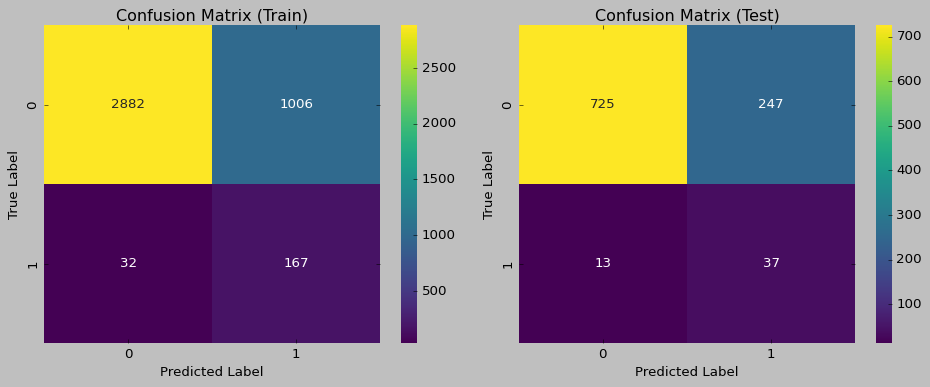
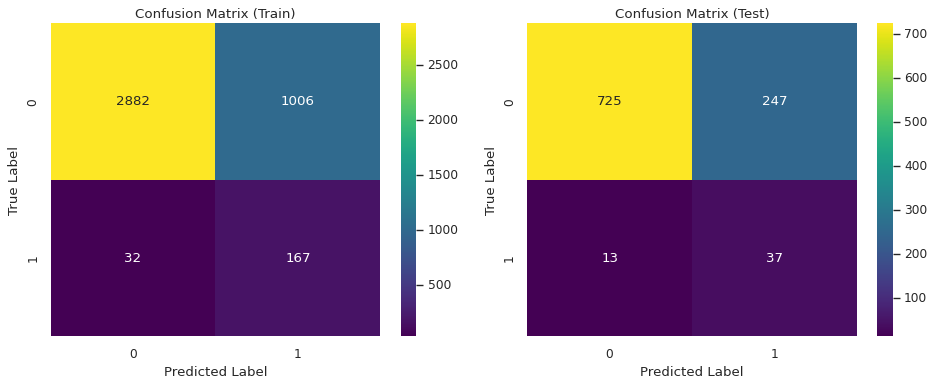
corr

diff --git a/README.md b/README.md
@@ -133,10 +133,10 @@ This dataset contains 5110 rows with 12 different characteristics:
 | Balanced Random Forest | Test    | 0.153846  | 0.720000 | 0.253521 | 0.792564 |
 
 **Confusion matrix _LogisticRegression_**
-<img src="images/3.png" alt="brain" width="600" height="500">
+<img src="images/3.png" alt="brain">
 
 **Confusion matrix _LogisticRegression_**
-<img src="images/8.png" alt="brain" width="600" height="500">
+<img src="images/8.png" alt="brain">
 
 <img src="images/4.png" alt="brain" width="600" height="500">
 <img src="images/5.png" alt="brain" width="600" height="500">
